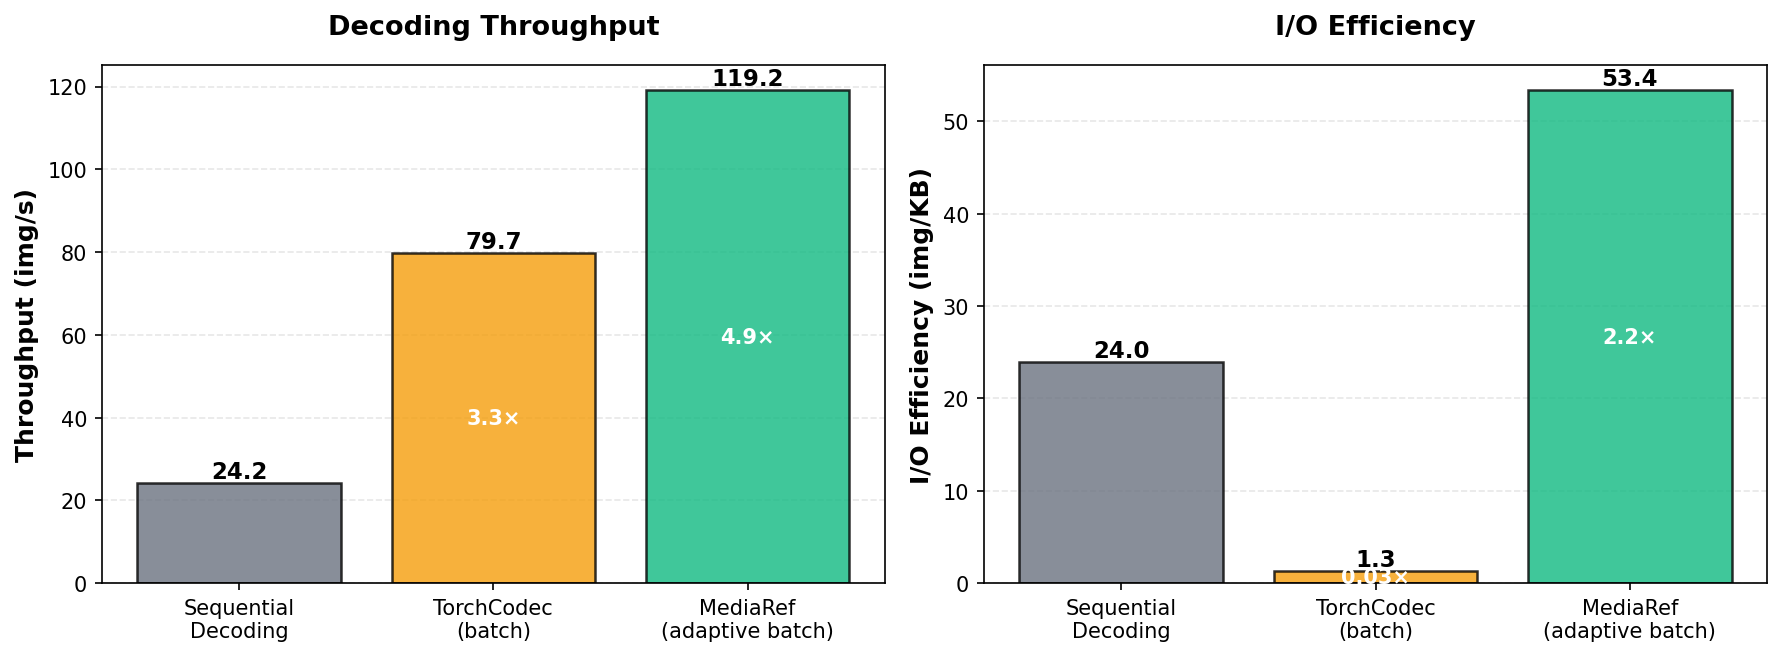
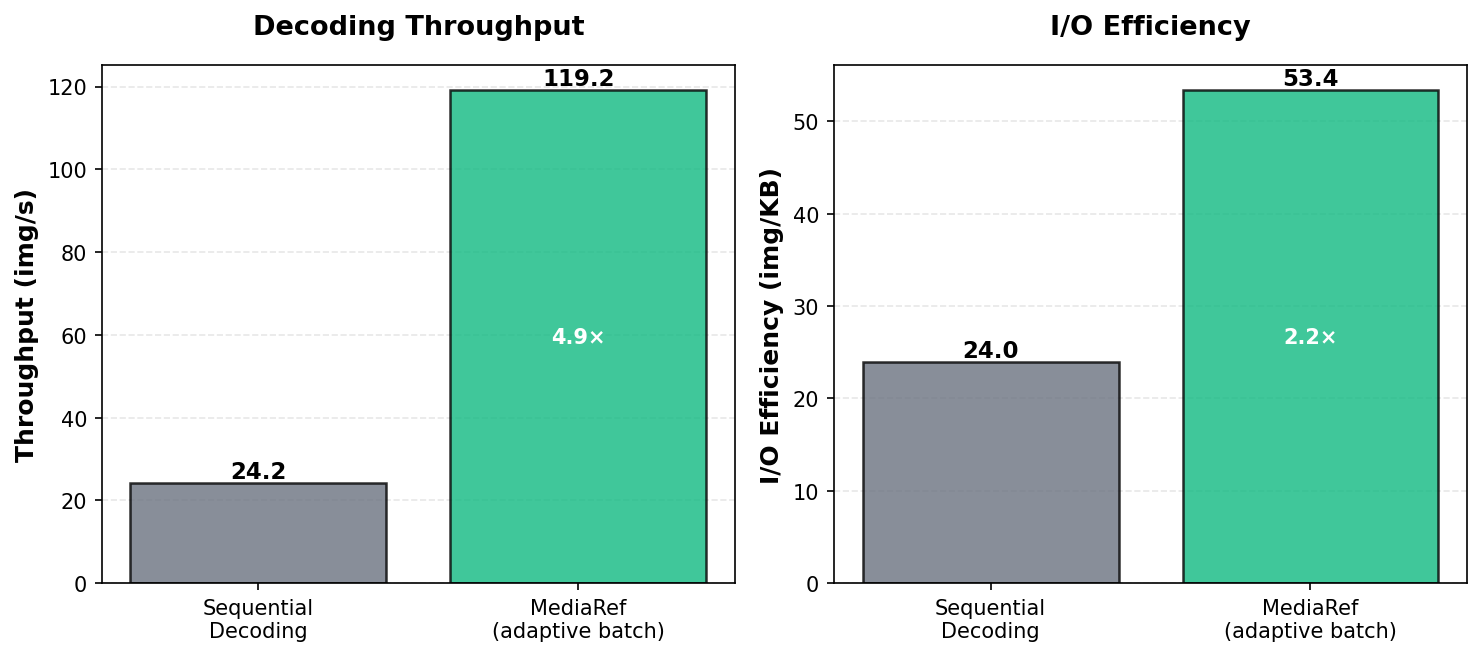
fix: update benchmark data and visualization for decoding performance

diff --git a/.github/assets/plot_decoding_benchmark.py b/.github/assets/plot_decoding_benchmark.py
@@ -3,19 +3,19 @@
 
 import matplotlib.pyplot as plt
 
-# Benchmark data
-configurations = ["Sequential\nDecoding", "TorchCodec\n(batch)", "MediaRef\n(adaptive batch)"]
-throughput = [24.25, 79.73, 119.16]  # img/s
-io_efficiency = [41.69, 770.39, 18.73]  # KB/img
+# Benchmark data (Sequential vs MediaRef only)
+configurations = ["Sequential\nDecoding", "MediaRef\n(adaptive batch)"]
+throughput = [24.25, 119.16]  # img/s
+io_efficiency = [41.69, 18.73]  # KB/img
 
 # Convert KB/img to img/KB for more intuitive visualization
 io_efficiency_inverted = [1000 / x for x in io_efficiency]  # img/KB
 
 # Create figure with two subplots
-fig, (ax1, ax2) = plt.subplots(1, 2, figsize=(12, 4.5))
+fig, (ax1, ax2) = plt.subplots(1, 2, figsize=(10, 4.5))
 
 # Colors
-colors = ["#6B7280", "#F59E0B", "#10B981"]
+colors = ["#6B7280", "#10B981"]
 
 # Plot 1: Throughput
 bars1 = ax1.bar(configurations, throughput, color=colors, alpha=0.8, edgecolor="black", linewidth=1.2)
@@ -37,9 +37,8 @@ for bar, val in zip(bars1, throughput):
         fontweight="bold",
     )
 
-# Add speedup annotations
-ax1.text(1, throughput[1] * 0.5, "3.3×", ha="center", va="center", fontsize=10, color="white", fontweight="bold")
-ax1.text(2, throughput[2] * 0.5, "4.9×", ha="center", va="center", fontsize=10, color="white", fontweight="bold")
+# Add speedup annotation
+ax1.text(1, throughput[1] * 0.5, "4.9×", ha="center", va="center", fontsize=10, color="white", fontweight="bold")
 
 # Plot 2: I/O Efficiency (inverted to img/KB)
 bars2 = ax2.bar(configurations, io_efficiency_inverted, color=colors, alpha=0.8, edgecolor="black", linewidth=1.2)
@@ -61,20 +60,10 @@ for bar, val in zip(bars2, io_efficiency_inverted):
         fontweight="bold",
     )
 
-# Add efficiency improvement annotations
+# Add efficiency improvement annotation
 ax2.text(
     1,
     io_efficiency_inverted[1] * 0.5,
-    "0.03×",
-    ha="center",
-    va="center",
-    fontsize=10,
-    color="white",
-    fontweight="bold",
-)
-ax2.text(
-    2,
-    io_efficiency_inverted[2] * 0.5,
     "2.2×",
     ha="center",
     va="center",
@@ -89,3 +78,4 @@ plt.tight_layout()
 # Save figure
 plt.savefig("decoding_benchmark.png", dpi=150, bbox_inches="tight")
 print("Figure saved to decoding_benchmark.png")
+

diff --git a/README.md b/README.md
@@ -47,15 +47,13 @@ The MediaRef schema(`uri`, `pts_ns`) is designed to be **permanent**, built enti
 
 Due to lazy loading, MediaRef has **zero CPU and I/O overhead** when the media is not accessed. When you do need to load the media, convenient APIs handle the complexity of multi-source media (local files, URLs, embedded data) with a single unified interface.
 
-When loading multiple frames from the same video, `batch_decode()` opens the video file once and reuses the handle, achieving **4.9× faster throughput** and **41× better I/O efficiency** compared to existing methods[^1].
+When loading multiple frames from the same video, `batch_decode()` opens the video file once and reuses the handle, achieving **4.9× faster throughput** and **2.2× better I/O efficiency** compared to sequential decoding.
 
 <p align="center">
   <img src=".github/assets/decoding_benchmark.png" alt="Decoding Benchmark" width="800">
 </p>
 
 > **Benchmark details**: Decoding throughput = decoded frames per second during dataloading; I/O efficiency = inverse of disk I/O operations per frame loaded. Measured on real ML dataloader workloads (Minecraft dataset: 64×5 min episodes, 640×360 @ 20Hz, FSLDataset with 4096 token sequences). See [D2E paper](https://worv-ai.github.io/d2e/) Section 3 and Appendix A for full methodology.
-
-[^1]: The benchmark was conducted against TorchCodec v0.6.0, which only supported `seek_mode=exact` for `.mkv` files, forcing full sequential scans and causing significant I/O overhead. While `.mkv` support for `seek_mode=approximate` was added in v0.9.0 ([pytorch/torchcodec#989](https://github.com/pytorch/torchcodec/pull/989)), TorchCodec still exhibits severe performance issues with `.mkv` files (see [pytorch/torchcodec#1223](https://github.com/pytorch/torchcodec/issues/1223)). MediaRef provides PyAV as a stable alternative.
 
 ## Installation
 
